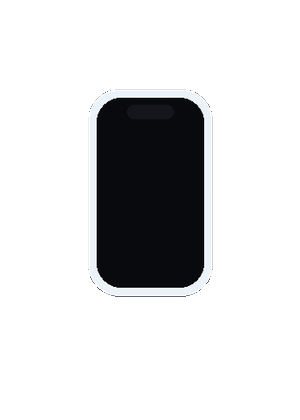
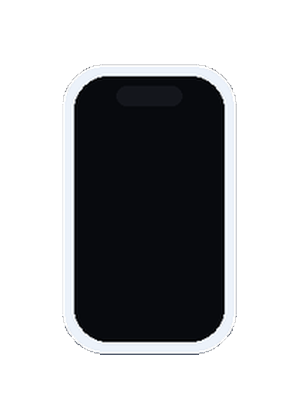
Size the two mended tiles like the rest, and drop the per-storage prices
The 17 Pro Max was still wrong after the caption came off. Its shape was
right — 2.04 against the 2.06 every other handset has — but it was 134x274
where its siblings are 175x361 on the same 300x420 canvas. The tile is the
same size either way, so the phone simply looked further away than the ones
beside it. Rescaled onto the shared footprint, which is a straight resize and
not a stretch. Nothing Phone 4 had the same problem, at 125x208; a sweep of
the other 200-odd tiles found no others.

Storage chips carried 'up to $1,274' under each capacity. That is the trap
just removed from the condition cards: a column of figures turns 'how much
storage does my phone have' into 'which of these pays most', except here the
honest answer is a fact the customer already knows or can look up, so the
number can only mislead. The price for what they chose is in the panel beside
the question. Removed the styles it left behind, in both stylesheets.

Verified in a browser: no chip prices anywhere, panel image 171x240, no
console errors.

diff --git a/trade-in-platform/src/components/DetailsStep.tsx b/trade-in-platform/src/components/DetailsStep.tsx
@@ -163,25 +163,25 @@ export function DetailsStep({
             {specQuestion} <span className="req">*</span>
           </h2>
           <div className="chip-row">
-            {primaryOptions.map((s) => {
-              const tip = device.storagePrices?.[s];
-              return (
-                <button
-                  key={s}
-                  type="button"
-                  className={`chip ${storage === s ? "chip--on" : ""}`}
-                  onClick={() => {
-                    onStorage(s);
-                    advance("storage");
-                  }}
-                >
-                  <span>{specLabel(s, device.category)}</span>
-                  {tip && tip > 0 ? (
-                    <span className="chip-price">up to ${tip.toLocaleString()}</span>
-                  ) : null}
-                </button>
-              );
-            })}
+            {/* No "up to $X" under each capacity. It is the same trap the
+                condition cards had: a column of figures turns "how much
+                storage does my phone have" into "which of these pays most",
+                and the answer to the first question is a fact the customer
+                either knows or can look up. The price for what they actually
+                chose sits in the panel beside this. */}
+            {primaryOptions.map((s) => (
+              <button
+                key={s}
+                type="button"
+                className={`chip ${storage === s ? "chip--on" : ""}`}
+                onClick={() => {
+                  onStorage(s);
+                  advance("storage");
+                }}
+              >
+                <span>{specLabel(s, device.category)}</span>
+              </button>
+            ))}
           </div>
         </div>
       ) : null}

diff --git a/trade-in-platform/src/components/FormSteps.css b/trade-in-platform/src/components/FormSteps.css
@@ -68,16 +68,6 @@
   transition: background 0.15s ease, border-color 0.15s ease, color 0.15s ease;
 }
 
-.chip-price {
-  font-size: 0.7rem;
-  font-weight: 600;
-  color: var(--mint-dim);
-}
-
-.chip--on .chip-price {
-  color: rgba(255, 255, 255, 0.88);
-}
-
 .chip:hover {
   border-color: var(--mint-dim);
 }

diff --git a/trade-in-platform/src/tokens.css b/trade-in-platform/src/tokens.css
@@ -196,7 +196,6 @@ select,
 .admin-stat-value,
 .admin-status-pill,
 .offer-amount,
-.chip-price,
 .device-card-price {
   font-variant-numeric: tabular-nums;
   font-feature-settings: "tnum" 1;
